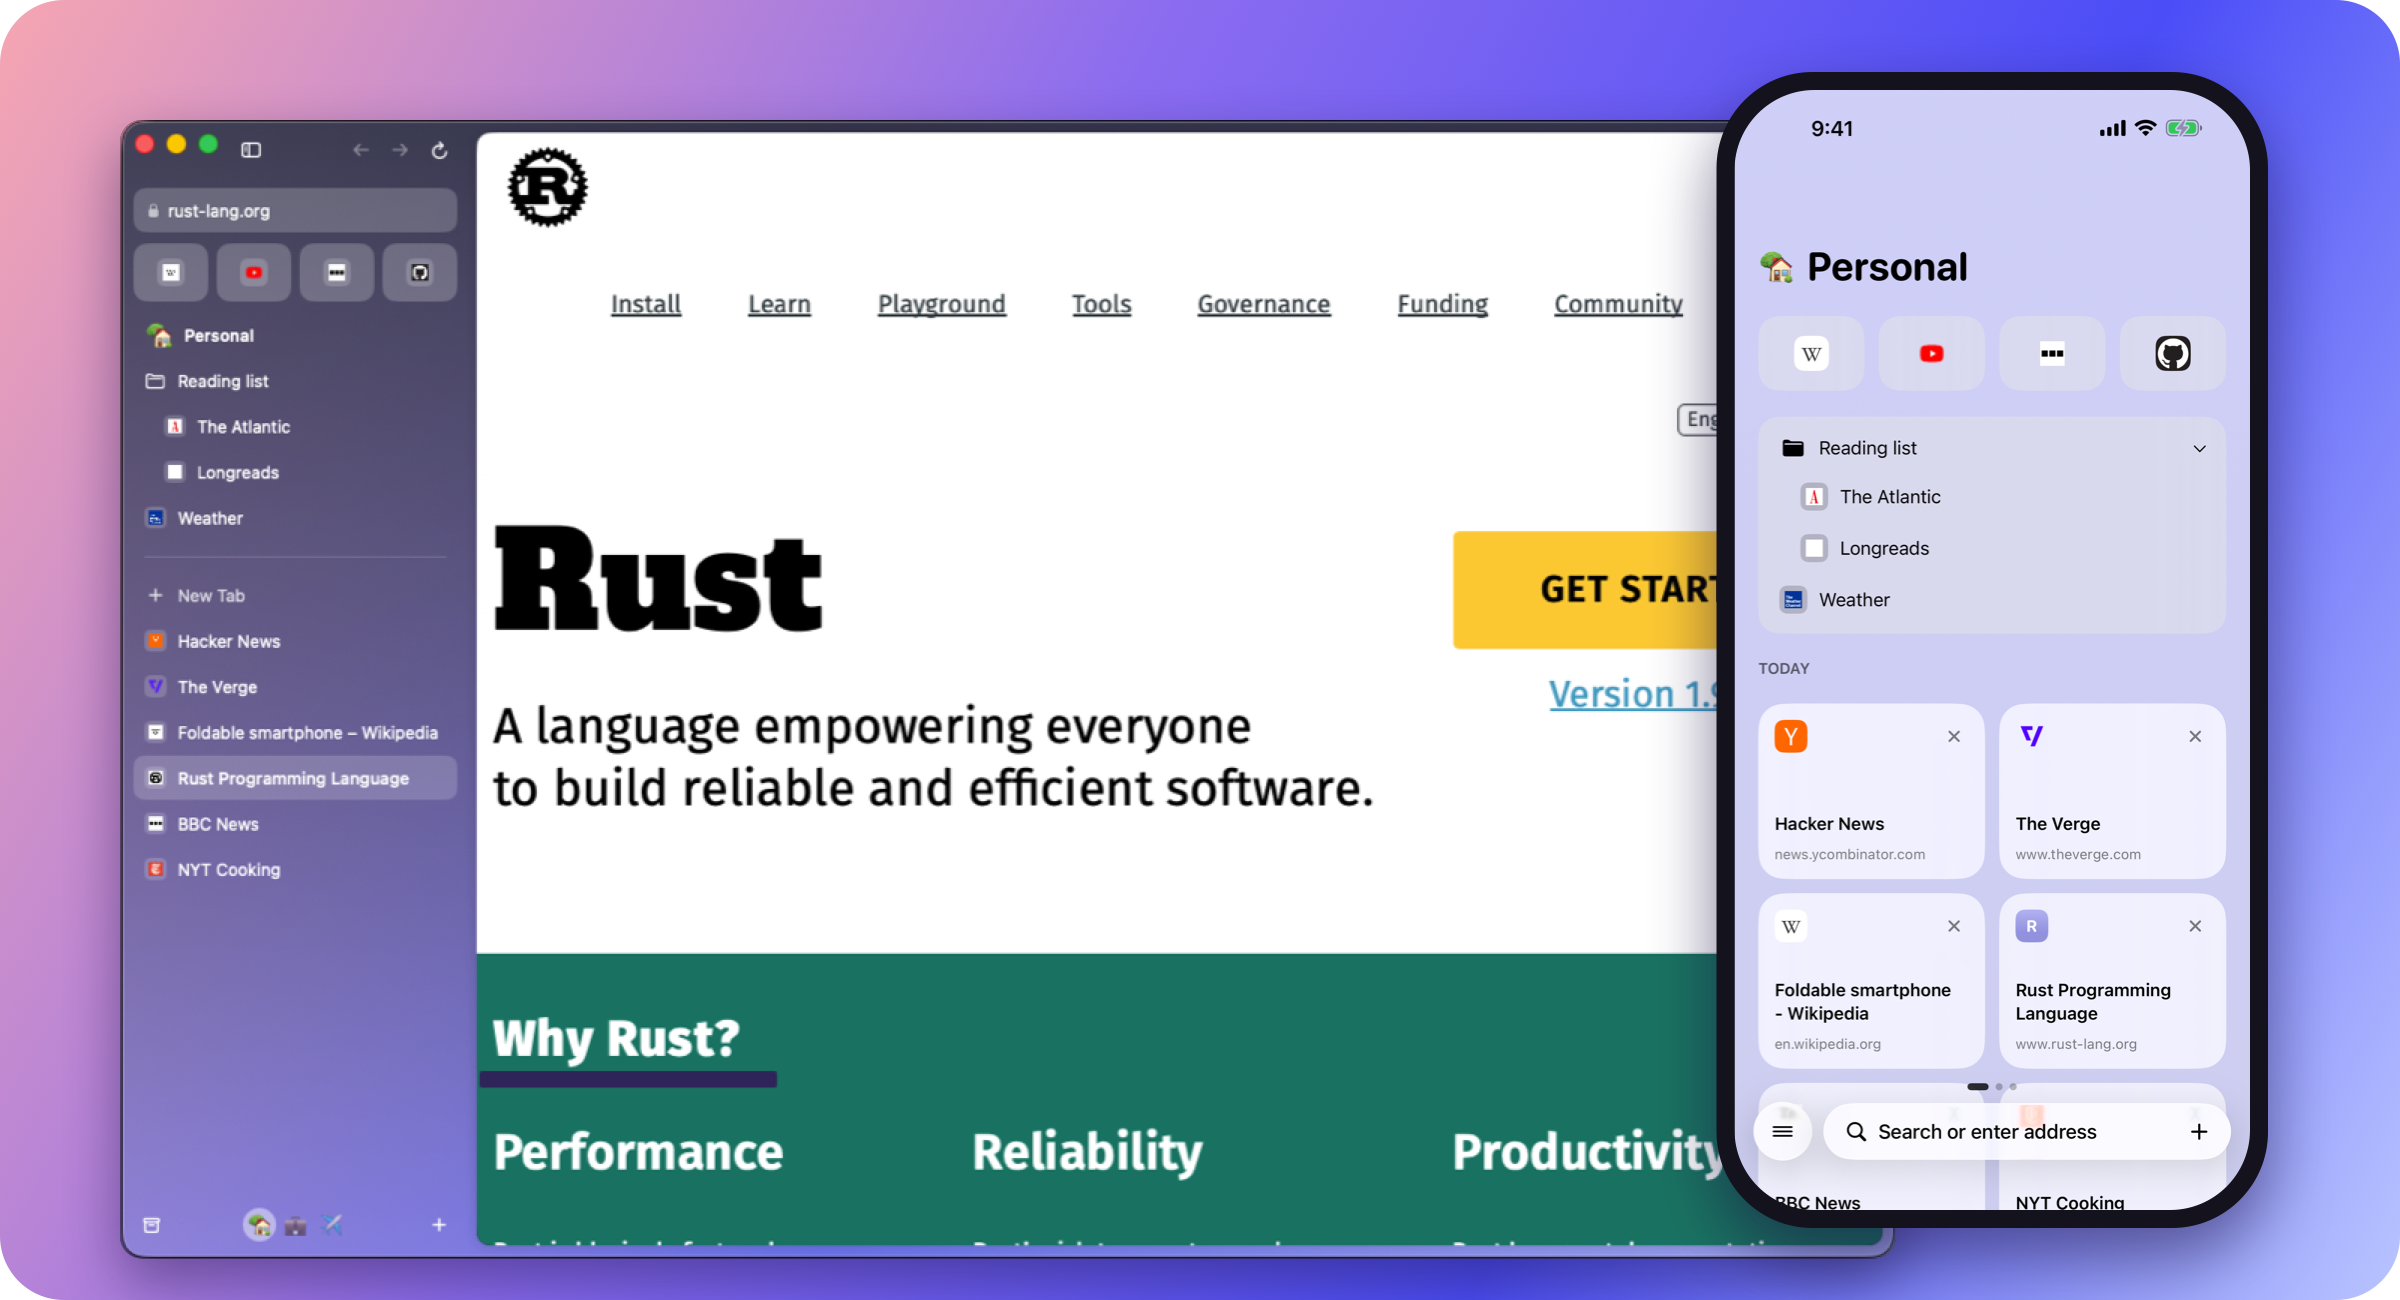
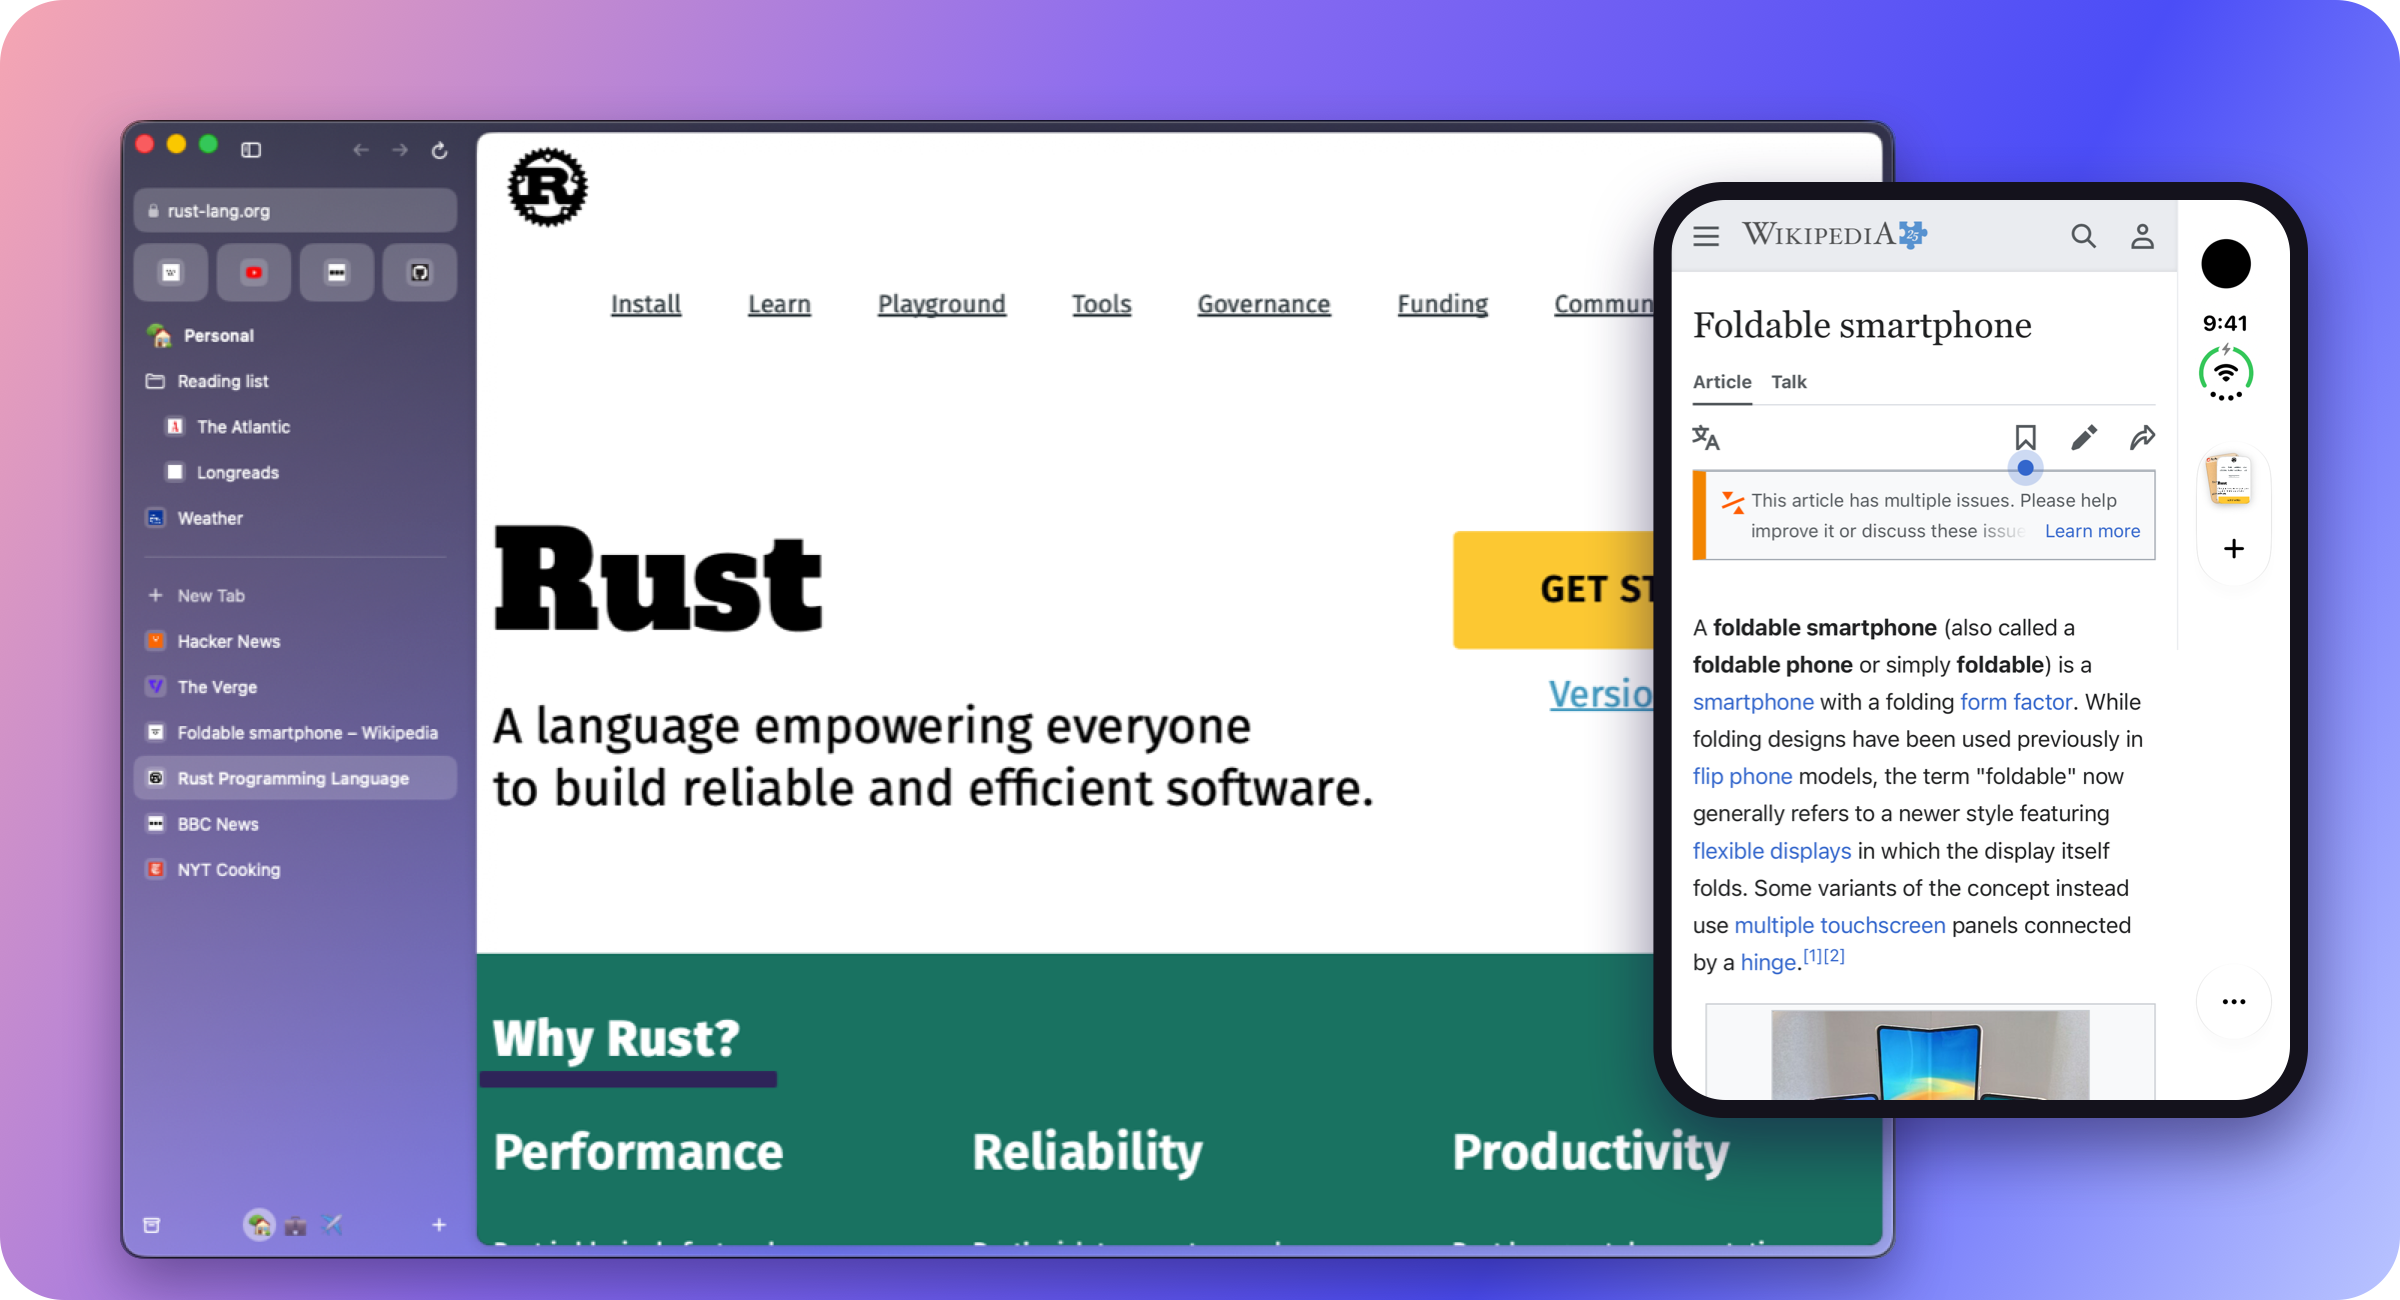
README: current iPhone layout, new screenshots and feature list (#16)
The iPhone section described the space home that was removed; it now shows the page, rail, tab carousel, search and page menu on iPhone Duo (folded), and lists search, the page menu and on-device AI. The hero uses the new iPhone shot.

Changed region(s): [[0.6562, 0.0308, 0.9688, 0.9846]]

diff --git a/README.md b/README.md
@@ -4,10 +4,10 @@
 
 # Boaz
 
-**A calm, spaces-first web browser for iPhone and Mac.**
+**A calm web browser for iPhone and Mac.**
 
-Spaces, pinned tabs and favorites that stay in step through your private iCloud,
-a Today list that tidies itself, and a layout that follows every posture of iPhone Duo.
+On iPhone, the page fills the screen and opens where you left it, with a slim rail for your tabs and a layout
+that follows every posture of iPhone Duo. On the Mac, Arc-style spaces. Both stay in step through your private iCloud.
 
 [![CI](https://github.com/chenkahana/Boaz/actions/workflows/ci.yml/badge.svg?branch=master)](https://github.com/chenkahana/Boaz/actions/workflows/ci.yml)
 ![iOS 27.1+](https://img.shields.io/badge/iOS-27.1%2B-000000?logo=apple)
@@ -27,10 +27,14 @@ a Today list that tidies itself, and a layout that follows every posture of iPho
 
 | | |
 |---|---|
-| **Spaces** | Keep work, home and projects apart. Each space has its own color theme, pinned tabs, folders and favorites; swipe or click to move between them. |
-| **Today and the Archive** | New tabs land in Today. Tabs you haven't opened in a while move to the Archive on their own; pinned tabs stay put. |
+| **Page first on iPhone** | Boaz opens on the last page you had open. A rail beside the page holds a stack of your previous tabs (most recent on top), **+** for search and **…** for the page menu. Tap the stack for a carousel of your tabs: tap one to open it, swipe one up to archive it. |
+| **Spaces on the Mac** | Keep work, home and projects apart. Each space has its own color theme, pinned tabs, folders and favorites. Spaces are a Mac idea; the iPhone shows your tabs without them. |
+| **Today and the Archive** | New tabs land in Today. Each device keeps its own Today list, and the iPhone can open the tabs on your Mac. Tabs you haven't opened in a while move to the Archive on their own; pinned tabs stay put. |
+| **Search** | Suggestions from your search engine (DuckDuckGo, Google, Bing, Brave, Kagi or Ecosia) mixed with your open tabs, history and address completion. Nothing is sent in Incognito, for addresses, or with suggestions turned off. |
+| **Page menu** | Back, Forward, Reload and Share, then Reader, Find on Page, Translate, Listen to Page, text size, desktop or mobile site, and per-site camera, microphone, pop-up and content-blocking settings. |
+| **On-device AI** | Summarize Page, Ask This Page and Tidy Tabs, using only Apple's on-device model. Nothing goes to a server. |
 | **iCloud sync** | Spaces, pins, folders, favorites and Today sync between iPhone and Mac through your **private** CloudKit database (`CKSyncEngine`). When iCloud is unavailable, a folder you choose works as a fallback. History and Incognito tabs never leave the device. |
-| **Built for iPhone Duo** | Folded: a single-column home with full-screen tabs. Open: sidebar and page side by side. Book: sidebar on the left half, page on the right. Laptop: page on top, controls on the lower half. The page is never reloaded as the hinge moves. Standard iPhones get the folded layout. |
+| **Built for iPhone Duo** | Folded: the page with the rail beside it, its edges tinted to match the site. Open: a sidebar with search and Today next to the page. Book: sidebar on the left half, page on the right. Laptop: page on top, controls on the lower half. The page is never reloaded as the hinge moves. Standard iPhones get the folded layout. |
 | **A full Mac browser** | Arc-style sidebar, command bar (⌘T / ⌘L), split view, rebindable shortcuts, downloads, and a small "Little Boaz" window for links opened from other apps. |
 | **Bring Arc with you** | On Mac, import Arc's spaces, pinned folders, favorites, themes, keyboard shortcuts and, if you opt in, cookies as they are. Chrome, Brave, Edge and Safari bookmarks import too. |
 | **Private by design** | Built-in ad and tracker blocking (EasyList), cookie-banner declining on iPhone, Incognito tabs and a reader view. No accounts, analytics or third-party SDKs. |
@@ -38,15 +42,18 @@ a Today list that tidies itself, and a layout that follows every posture of iPho
 
 ## Screenshots
 
+iPhone Duo, folded:
+
 <table>
   <tr>
-    <td><img src="docs/screenshots/iphone-69-1-home.png" alt="Space home" width="180"></td>
-    <td><img src="docs/screenshots/iphone-69-2-page.png" alt="A page open" width="180"></td>
-    <td><img src="docs/screenshots/iphone-69-3-work.png" alt="Work space" width="180"></td>
-    <td><img src="docs/screenshots/iphone-69-4-search.png" alt="Search" width="180"></td>
-    <td><img src="docs/screenshots/iphone-69-5-travel-dark.png" alt="Dark mode" width="180"></td>
+    <td align="center"><img src="docs/screenshots/duo-1-page.png" alt="A page with the rail beside it" width="210"><br><sub>The page and the rail</sub></td>
+    <td align="center"><img src="docs/screenshots/duo-2-tabs.png" alt="The tab carousel" width="210"><br><sub>Your tabs</sub></td>
+    <td align="center"><img src="docs/screenshots/duo-3-search.png" alt="Search with suggestions" width="210"><br><sub>Search</sub></td>
+    <td align="center"><img src="docs/screenshots/duo-4-menu.png" alt="The page menu" width="210"><br><sub>Page menu</sub></td>
   </tr>
 </table>
+
+Mac:
 
 <table>
   <tr>
@@ -81,11 +88,11 @@ flowchart LR
 
 | Layer | Path | What it holds |
 |---|---|---|
-| iPhone app | [`Apps/iOS`](Apps/iOS) | App model, posture-aware shell, tab browser, reader, onboarding, App Intents |
+| iPhone app | [`Apps/iOS`](Apps/iOS) | App model, posture-aware shell, tab browser, rail and tab carousel, bottom panels, reader, onboarding, App Intents |
 | Mac app | [`Apps/macOS`](Apps/macOS) | Window and sidebar, command bar, key bindings, Arc import UI, onboarding |
 | Extensions | [`Apps/Extensions`](Apps/Extensions) | Share extension and WidgetKit widgets |
 | Shared UI | [`Apps/Shared`](Apps/Shared) | Theme, assets, onboarding content, privacy manifest |
-| Web engine glue | [`Apps/Browser`](Apps/Browser) | WebKit content blocking, downloads, favicons, site colors |
+| Web engine glue | [`Apps/Browser`](Apps/Browser) | WebKit content blocking, downloads, favicons, site colors, search suggestions, on-device AI |
 | Core | [`Packages/BoazKit`](Packages/BoazKit) | Records, store and migrations, CloudKit and folder sync, Arc and bookmark importers |
 
 More detail: [docs/architecture.md](docs/architecture.md).
@@ -138,7 +145,7 @@ Boaz/
 │   ├── Browser/          WebKit glue shared by both apps
 │   └── Shared/           Theme, assets, privacy manifest
 ├── Packages/BoazKit/    Core library: model, store, sync, importers
-├── Tools/                Asset generators
+├── Tools/                Icon generator
 ├── docs/                 Architecture, privacy policy, release guide, screenshots
 ├── .github/              CI, issue and pull-request templates
 ├── project.yml           XcodeGen project definition
